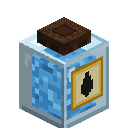
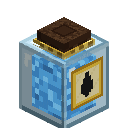
Magic art: two-block research table, deeper smeltery, calmer jar glass
Smeltery: raised brass frame, per-brick shading, recessed fire mouth behind grate
bars, octagonal alembic with raised hoops and a cyan rune plate. Research table is
now two blocks wide with a navy cloth runner, open grimoire, inkwell and quill.

Changed region(s): [[0.1562, 0.25, 0.8438, 1.0]]

diff --git a/assets/magic-art/tools/distiller3.py b/assets/magic-art/tools/distiller3.py
@@ -1,0 +1,189 @@
+"""Distiller v3 (Thaumcraft skeleton, ProjectS materials): stone-brick smeltery with a
+raised brass frame, a recessed fire mouth behind real grate bars, and an octagonal
+alembic with raised brass hoops, a recessed glass window and a side spout.
+Accent: a cool cyan rune plate (ProjectS magic light)."""
+import random
+from PIL import Image
+from mcrender import render, box
+import tcstyle
+
+
+def hx(s, a=255):
+    s = s.lstrip('#')
+    return tuple(int(s[i:i + 2], 16) for i in (0, 2, 4)) + (a,)
+
+
+def tile(fn, seed=0):
+    r = random.Random(seed)
+    im = Image.new('RGBA', (16, 16), (0, 0, 0, 0))
+    p = im.load()
+    for y in range(16):
+        for x in range(16):
+            c = fn(x, y, r)
+            if c:
+                p[x, y] = hx(c) if isinstance(c, str) else c
+    return im
+
+
+ST = ['#1c1a22', '#2c2a34', '#3c3946', '#4e4a58', '#635e6e', '#7a7486']   # arcane stone, violet shadows
+BR = ['#4a2e0c', '#7a5a18', '#b08a2a', '#dcb848', '#f6e494']
+GW = tcstyle.GW
+IRON = ['#16161a', '#24242a', '#34343c', '#484852', '#5e5e6a']
+CY = ['#1f6fa8', '#49b4d9', '#a8ecf6', '#f0ffff']
+T = dict(tcstyle.T)
+
+
+def bricks(x, y, r):
+    # 4px tall courses, 8px bricks offset per course; each brick lit on top/left, shadowed bottom/right
+    row = y // 4
+    off = 0 if row % 2 == 0 else 4
+    bx = (x + off) % 8
+    by = y % 4
+    if by == 3 or bx == 7:
+        return ST[0]
+    if by == 0 or bx == 0:
+        return ST[4] if r.random() < 0.85 else ST[3]
+    if by == 2 or bx == 6:
+        return ST[2]
+    return ST[3] if r.random() < 0.7 else ST[2]
+
+
+T['stone'] = tile(bricks, 1)
+T['stone_top'] = tile(lambda x, y, r: ST[0] if (x % 8 == 7 or y % 8 == 7) else (ST[4] if (x % 8 == 0 or y % 8 == 0) else ST[r.choice((3, 3, 2))]), 2)
+
+
+def brass_bar(x, y, r):          # bevelled brass strip (used for raised frame pieces)
+    if x == 0 or y == 0:
+        return BR[4]
+    if x == 15 or y == 15:
+        return BR[1]
+    return BR[3] if (x + y) < 10 else BR[2] if (x + y) < 22 else BR[1]
+
+
+T['brass'] = tile(brass_bar, 3)
+T['brass_rivet'] = tile(lambda x, y, r: (BR[4] if (x, y) in ((7, 6), (8, 6)) else BR[0] if (x, y) in ((7, 9), (8, 9)) else BR[3] if (7 <= x <= 8 and 7 <= y <= 8) else None) or brass_bar(x, y, r), 4)
+
+
+def inner_wall(x, y, r):          # soot-darkened firebox interior, lit from the fire below
+    s = 0 if y < 6 else 1 if y < 11 else 2
+    return [IRON[0], '#3a1a10', '#6a2a14'][s] if r.random() < 0.8 else IRON[1]
+
+
+T['firewall'] = tile(inner_wall, 5)
+
+
+def fire(x, y, r):
+    d = abs(x - 7.5) * 0.8 + max(0, 12 - y) * 0.55
+    if d < 2.6:
+        return '#fff4c0'
+    if d < 4.4:
+        return '#ffc048'
+    if d < 6.4:
+        return '#f07020'
+    if d < 8.4:
+        return '#a83010'
+    return '#4a140a'
+
+
+T['fire'] = tile(fire, 6)
+T['iron'] = tile(lambda x, y, r: IRON[4] if x == 0 else IRON[1] if x == 15 else IRON[3] if x < 6 else IRON[2], 7)
+
+
+def barrel(x, y, r):
+    if x % 4 == 0:
+        return GW[0]
+    s = 3 if x % 4 == 1 else 2 if x % 4 == 2 else 1
+    if r.random() < 0.15:
+        s = max(1, s - 1)
+    return GW[s]
+
+
+T['barrel'] = tile(barrel, 8)
+T['barrel_top'] = tile(lambda x, y, r: BR[2] if (x in (0, 15) or y in (0, 15)) else (IRON[0] if 5 <= x <= 10 and 5 <= y <= 10 else GW[r.choice((2, 3))]), 9)
+
+
+def window(x, y, r):              # recessed glass window with glowing essentia behind
+    if x in (0, 15) or y in (0, 15):
+        return BR[1]
+    if x == 1 or y == 1:
+        return IRON[0]
+    d = abs(x - 7.5) + abs(y - 8.5)
+    return CY[3] if d < 2 else CY[2] if d < 4 else CY[1] if d < 7 else CY[0]
+
+
+T['window'] = tile(window, 10)
+
+
+def rune_plate(x, y, r):          # navy enamel plate with a cyan rune (ProjectS accent)
+    if x in (0, 15) or y in (0, 15):
+        return BR[2]
+    on = (x in (7, 8) and 3 <= y <= 12) or (y in (7, 8) and 4 <= x <= 11) or (abs(x - 7.5) == abs(y - 7.5) and 2.5 < abs(x - 7.5) < 5)
+    if on:
+        return CY[2] if 5 <= x <= 10 and 5 <= y <= 10 else CY[1]
+    return '#1c2a4e' if (x + y) % 5 else '#24345e'
+
+
+T['rune'] = tile(rune_plate, 11)
+
+
+def M():
+    full = [0, 0, 16, 16]
+    sides = ('north', 'south', 'east', 'west', 'up', 'down')
+    st = {'north': 'stone', 'south': 'stone', 'east': 'stone', 'west': 'stone', 'up': 'stone_top', 'down': 'stone'}
+    E = []
+    # stone body, slightly inset so the brass frame stands proud
+    E.append(box((0.6, 0.6, 0.6), (15.4, 15.0, 13.2), st))
+    # front slab built around the fire mouth (so the recess is really open)
+    E.append(box((0.6, 0.6, 13.2), (4.0, 15.0, 15.4), st))
+    E.append(box((12.0, 0.6, 13.2), (15.4, 15.0, 15.4), st))
+    E.append(box((4.0, 0.6, 13.2), (12.0, 2.2, 15.4), st))
+    E.append(box((4.0, 9.0, 13.2), (12.0, 15.0, 15.4), st))
+    # brass frame: four corner pillars + base plinth + top rim (raised)
+    for (x0, z0) in ((0, 0), (14, 0), (0, 14), (14, 14)):
+        E.append(box((x0, 0, z0), (x0 + 2, 15.0, z0 + 2), 'brass'))
+    E.append(box((-0.2, 0, -0.2), (16.2, 1.2, 16.2), 'brass'))
+    E.append(box((-0.3, 15.0, -0.3), (16.3, 16.0, 1.7), 'brass'))
+    E.append(box((-0.3, 15.0, 14.3), (16.3, 16.0, 16.3), 'brass'))
+    E.append(box((-0.3, 15.0, 1.7), (1.7, 16.0, 14.3), 'brass'))
+    E.append(box((14.3, 15.0, 1.7), (16.3, 16.0, 14.3), 'brass'))
+    E.append(box((1.7, 15.0, 1.7), (14.3, 15.6, 14.3), 'stone_top', faces=('up',)))
+    # recessed fire mouth on the front (south): back wall with fire, side walls, lintel
+    E.append(box((4, 2.2, 13.2), (12, 9.0, 13.25), 'fire', faces=('south',), uv={'south': full}, emissive=True))
+    E.append(box((4, 2.2, 13.25), (4.4, 9.0, 15.4), 'firewall', faces=('east',), uv={'east': full}))
+    E.append(box((11.6, 2.2, 13.25), (12, 9.0, 15.4), 'firewall', faces=('west',), uv={'west': full}))
+    E.append(box((4, 8.6, 13.25), (12, 9.0, 15.4), 'firewall', faces=('down',)))
+    # cut the stone in front of the mouth: draw a dark frame around the opening instead of stone
+    E.append(box((3.4, 1.6, 15.4), (12.6, 2.2, 15.9), 'brass'))             # sill
+    E.append(box((3.4, 9.0, 15.4), (12.6, 10.0, 15.9), 'brass_rivet', uv={'south': full}))  # lintel
+    E.append(box((3.4, 2.2, 15.4), (4.0, 9.0, 15.9), 'brass'))
+    E.append(box((12.0, 2.2, 15.4), (12.6, 9.0, 15.9), 'brass'))
+    # grate bars standing in the opening
+    for bx in (6.2, 9.0):
+        E.append(box((bx, 2.2, 15.0), (bx + 0.7, 9.0, 15.5), 'iron'))
+    # rune plate above the mouth (ProjectS accent)
+    E.append(box((5.5, 11.0, 15.4), (10.5, 14.0, 15.6), 'rune', faces=('south',), uv={'south': full}, emissive=True))
+    # ---- alembic on top: octagonal barrel with raised hoops ----
+    bar = {'north': 'barrel', 'south': 'barrel', 'east': 'barrel', 'west': 'barrel', 'up': 'barrel_top', 'down': 'barrel'}
+    E.append(box((3.5, 16.0, 5.0), (12.5, 25.0, 11.0), bar, uv={'up': full}))
+    E.append(box((5.0, 16.0, 3.5), (11.0, 25.0, 12.5), bar, uv={'up': full}))
+    for hy in (17.0, 23.0):
+        E.append(box((3.2, hy, 4.7), (12.8, hy + 1.0, 11.3), 'brass'))
+        E.append(box((4.7, hy, 3.2), (11.3, hy + 1.0, 12.8), 'brass'))
+    # recessed window on the front of the alembic
+    E.append(box((6.2, 18.6, 12.3), (9.8, 22.4, 12.55), 'window', faces=('south',), uv={'south': full}, emissive=True))
+    # domed cap + spout to the side
+    E.append(box((5.5, 25.0, 5.5), (10.5, 26.2, 10.5), 'brass'))
+    E.append(box((7.0, 26.2, 7.0), (9.0, 27.6, 9.0), 'iron'))
+    E.append(box((12.8, 21.0, 7.4), (15.6, 22.2, 8.6), 'brass'))
+    E.append(box((15.0, 19.4, 7.4), (16.2, 22.2, 8.6), 'brass'))
+    return {'elements': E}
+
+
+if __name__ == '__main__':
+    im = render(M(), T, size=160, scale=0.42, light=True, rot_y=45, center=(8, 13, 8))
+    im.save('tc_smeltery.png')
+    big = im.resize((480, 480), Image.NEAREST)
+    sh = Image.new('RGBA', (520, 520), (14, 16, 20, 255))
+    sh.paste(big, (20, 20), big)
+    sh.save('prev_smeltery3.png')
+    print('ok')

diff --git a/assets/magic-art/tools/desk3.py b/assets/magic-art/tools/desk3.py
@@ -1,0 +1,166 @@
+"""Research table v3: two blocks wide (Thaumcraft skeleton), chunky greatwood with a
+leather inset top, raised brass corners, two drawers, a lower stretcher, and ProjectS
+touches: a navy cloth runner draped over the front edge, an open grimoire with a cool
+cyan rune, inkwell + flat quill, a small essentia jar and a rolled star chart."""
+import random
+from PIL import Image
+from mcrender import render, box
+import tcstyle
+import distiller3
+
+
+def hx(s, a=255):
+    s = s.lstrip('#')
+    return tuple(int(s[i:i + 2], 16) for i in (0, 2, 4)) + (a,)
+
+
+def tile(fn, seed=0):
+    r = random.Random(seed)
+    im = Image.new('RGBA', (16, 16), (0, 0, 0, 0))
+    p = im.load()
+    for y in range(16):
+        for x in range(16):
+            c = fn(x, y, r)
+            if c:
+                p[x, y] = hx(c) if isinstance(c, str) else c
+    return im
+
+
+GW = tcstyle.GW
+BR = distiller3.BR
+CY = distiller3.CY
+NAVY = ['#0c1226', '#16203e', '#22305a', '#30447a', '#4a62a0']
+PAGE = ['#8a7a56', '#b8a67a', '#e0d0a0', '#f4e8c0']
+LEA = ['#3a1c12', '#52281a', '#683424', '#7e422e']
+T = dict(tcstyle.T)
+T.update({k: distiller3.T[k] for k in ('brass', 'iron', 'window')})
+
+
+def plank(x, y, r):
+    if y % 4 == 3:
+        return GW[0]
+    if y % 4 == 0:
+        return GW[4] if r.random() < 0.7 else GW[3]
+    return GW[r.choice((2, 2, 3, 1))]
+
+
+T['gw_side'] = tile(plank, 1)
+
+
+def leg(x, y, r):
+    if x == 0:
+        return GW[4]
+    if x == 15:
+        return GW[0]
+    return GW[3] if x < 6 else GW[2] if x < 11 else GW[1]
+
+
+T['leg'] = tile(leg, 2)
+
+
+def top_inset(x, y, r):           # leather writing surface with a darker border and a highlight lip
+    if x in (0, 15) or y in (0, 15):
+        return GW[1]
+    if x == 1 or y == 1:
+        return GW[4]
+    if x == 14 or y == 14:
+        return GW[0]
+    return LEA[r.choice((1, 2, 2, 2, 3))]
+
+
+T['top'] = tile(top_inset, 3)
+
+
+def drawer(x, y, r):
+    if x in (0, 15) or y in (0, 15):
+        return GW[0]
+    if x == 1 or y == 1:
+        return GW[4]
+    if 6 <= x <= 9 and 7 <= y <= 9:
+        return BR[4] if y == 7 else BR[2] if y == 8 else BR[1]
+    return GW[r.choice((2, 3, 3))]
+
+
+T['drawer'] = tile(drawer, 4)
+
+
+def cloth(x, y, r):               # navy runner with a brass-thread border and a tiny star motif
+    if y in (1, 14):
+        return BR[2]
+    if (x, y) in ((7, 7), (8, 8), (7, 8), (8, 7)):
+        return NAVY[4]
+    return NAVY[2] if (x + y) % 6 else NAVY[3]
+
+
+T['cloth'] = tile(cloth, 5)
+T['cloth_side'] = tile(lambda x, y, r: NAVY[1] if y > 10 else NAVY[2], 6)
+
+
+def page(x, y, r):
+    if y in (3, 5, 7, 9, 11) and 2 <= x <= 13 and r.random() < 0.75:
+        return PAGE[1]
+    return PAGE[3] if x < 7 else PAGE[2]
+
+
+def rune_page(x, y, r):
+    d = abs(x - 7.5) + abs(y - 7.5)
+    on = (x in (7, 8) and 3 <= y <= 12) or (y in (7, 8) and 3 <= x <= 12) or (4.5 <= d < 5.5)
+    if on:
+        return CY[2] if d < 3 else CY[1]
+    return PAGE[2] if x < 8 else PAGE[1]
+
+
+T['page'] = tile(page, 7)
+T['rune_page'] = tile(rune_page, 8)
+T['cover'] = tile(lambda x, y, r: LEA[3] if (x + y) < 8 else LEA[2] if (x + y) < 20 else LEA[1], 9)
+T['chart'] = tile(lambda x, y, r: BR[2] if (x * 3 + y) % 7 == 0 else NAVY[3] if y < 8 else NAVY[2], 10)
+
+
+def M():
+    full = [0, 0, 16, 16]
+    E = []
+    # top slab (two blocks): sides planks, top leather inset per block
+    for x0 in (0, 16):
+        E.append(box((x0, 11, 0), (x0 + 16, 15, 16), {'north': 'gw_side', 'south': 'gw_side', 'east': 'gw_side', 'west': 'gw_side', 'up': 'top', 'down': 'gw_side'}, uv={'up': full}))
+    # raised brass corner caps
+    for (x0, z0) in ((-0.3, -0.3), (30.3, -0.3), (-0.3, 14.3), (30.3, 14.3)):
+        E.append(box((x0, 10.7, z0), (x0 + 2, 15.3, z0 + 2), 'brass'))
+    # apron with two drawers on the front
+    E.append(box((1.0, 8.5, 1.0), (31.0, 11.0, 15.0), 'gw_side'))
+    for dx in (4.0, 20.0):
+        E.append(box((dx, 8.7, 15.0), (dx + 8.0, 10.8, 15.25), 'drawer', faces=('south',), uv={'south': full}))
+    # chunky legs + lower stretcher
+    for (lx, lz) in ((1.0, 1.0), (27.0, 1.0), (1.0, 11.0), (27.0, 11.0)):
+        E.append(box((lx, 0, lz), (lx + 4.0, 8.5, lz + 4.0), 'leg'))
+    E.append(box((5.0, 2.0, 2.5), (27.0, 3.5, 4.5), 'gw_side'))
+    E.append(box((5.0, 2.0, 11.5), (27.0, 3.5, 13.5), 'gw_side'))
+    # navy cloth runner across the top, draping over the front edge
+    E.append(box((10.0, 15.0, 0.0), (22.0, 15.3, 16.0), {'up': 'cloth', 'north': 'cloth_side', 'south': 'cloth_side', 'east': 'cloth_side', 'west': 'cloth_side', 'down': 'cloth_side'}, uv={'up': full}))
+    E.append(box((10.0, 11.5, 16.0), (22.0, 15.3, 16.3), 'cloth', faces=('south', 'east', 'west'), uv={'south': full}))
+    # open grimoire on the runner (cover + two pages, rune page glowing)
+    E.append(box((11.0, 15.3, 4.0), (21.0, 15.8, 12.0), 'cover'))
+    E.append(box((11.5, 15.8, 4.5), (15.9, 16.6, 11.5), 'page', uv={'up': full}))
+    E.append(box((16.1, 15.8, 4.5), (20.5, 16.6, 11.5), {'up': 'rune_page', 'north': 'page', 'south': 'page', 'east': 'page', 'west': 'page', 'down': 'page'}, uv={'up': full}, emissive=True))
+    E.append(box((15.8, 15.8, 4.5), (16.2, 16.9, 11.5), 'page'))
+    # inkwell + flat quill (left)
+    E.append(box((3.0, 15.0, 3.0), (6.0, 16.6, 6.0), 'inkglass'))
+    E.append(box((3.5, 16.6, 3.5), (5.5, 17.1, 5.5), 'ink'))
+    E.append(box((-1.0, 15.6, 4.5), (11.0, 27.6, 4.51), 'quill', faces=('south', 'north'), uv={'south': full, 'north': [16, 0, 0, 16]}))
+    # small essentia jar (right back)
+    E.append(box((25.6, 15.0, 2.6), (29.4, 19.4, 6.4), 'ess', emissive=True))
+    E.append(box((25.0, 15.0, 2.0), (30.0, 20.0, 7.0), 'jar_glass', uv={k: full for k in ('north', 'south', 'east', 'west', 'up')}))
+    E.append(box((26.0, 20.0, 3.0), (29.0, 21.0, 6.0), 'lid'))
+    # rolled star chart (right front)
+    E.append(box((24.0, 15.0, 10.0), (30.0, 16.2, 11.4), 'chart'))
+    E.append(box((23.6, 14.95, 9.9), (24.2, 16.3, 11.5), 'brass'))
+    return {'elements': E}
+
+
+if __name__ == '__main__':
+    im = render(M(), T, size=192, scale=0.36, light=True, rot_y=35, center=(16, 12, 8))
+    im.save('tc_desk.png')
+    big = im.resize((576, 576), Image.NEAREST)
+    sh = Image.new('RGBA', (616, 616), (14, 16, 20, 255))
+    sh.paste(big, (20, 20), big)
+    sh.save('prev_desk3.png')
+    print('ok')

diff --git a/assets/magic-art/tools/tcstyle.py b/assets/magic-art/tools/tcstyle.py
@@ -93,7 +93,7 @@ g = Image.new('RGBA', (16, 16), (0, 0, 0, 0))
 gp = g.load()
 for i in range(16):
     for (x, y) in ((i, 0), (i, 15), (0, i), (15, i)):
-        gp[x, y] = (205, 235, 245, 150) if (x == 0 or y == 0) else (140, 180, 200, 140)
+        gp[x, y] = (175, 210, 225, 105) if (x == 0 or y == 0) else (110, 150, 170, 115)
 for y in range(1, 15):
     for x in range(1, 15):
         gp[x, y] = (200, 230, 245, 18)
@@ -143,6 +143,7 @@ def JAR():
     E = [
         box((4.5, 0.5, 4.5), (11.5, 9.5, 11.5), 'ess', emissive=True),
         box((3, 0, 3), (13, 12, 13), 'jar_glass', uv={k: full for k in ('north', 'south', 'east', 'west', 'up', 'down')}),
+        box((4.6, 11.6, 4.6), (11.4, 12.4, 11.4), 'brass'),
         box((5, 12, 5), (11, 14, 11), {'north': 'lid', 'south': 'lid', 'east': 'lid', 'west': 'lid', 'up': 'lid_top', 'down': 'lid'}, uv={'up': full}),
         box((4.5, 3, 13.02), (11.5, 10, 13.12), 'label', faces=('south',), uv={'south': full}),
     ]

diff --git a/assets/magic-art/tools/mcrender.py b/assets/magic-art/tools/mcrender.py
@@ -36,7 +36,7 @@ def default_uv(fr, to, face):
     return [x0, z0, x1, z1]
 
 
-def render(model, textures, size=128, rot_x=30, rot_y=225, scale=0.625, pad=0.0, shade=True, light=None):
+def render(model, textures, size=128, rot_x=30, rot_y=225, scale=0.625, pad=0.0, shade=True, light=None, center=(8, 8, 8)):
     """model: dict with 'elements'; textures: name -> PIL RGBA 16x16 (or any square)."""
     img = Image.new('RGBA', (size, size), (0, 0, 0, 0))
     zbuf = [[-1e9] * size for _ in range(size)]
@@ -44,7 +44,7 @@ def render(model, textures, size=128, rot_x=30, rot_y=225, scale=0.625, pad=0.0,
     ry, rx = math.radians(rot_y), math.radians(rot_x)
 
     def tf(p):
-        x, y, z = p[0] - 8, p[1] - 8, p[2] - 8
+        x, y, z = p[0] - center[0], p[1] - center[1], p[2] - center[2]
         # rotate around Y
         x, z = x * math.cos(ry) + z * math.sin(ry), -x * math.sin(ry) + z * math.cos(ry)
         # rotate around X (tilt camera down)
